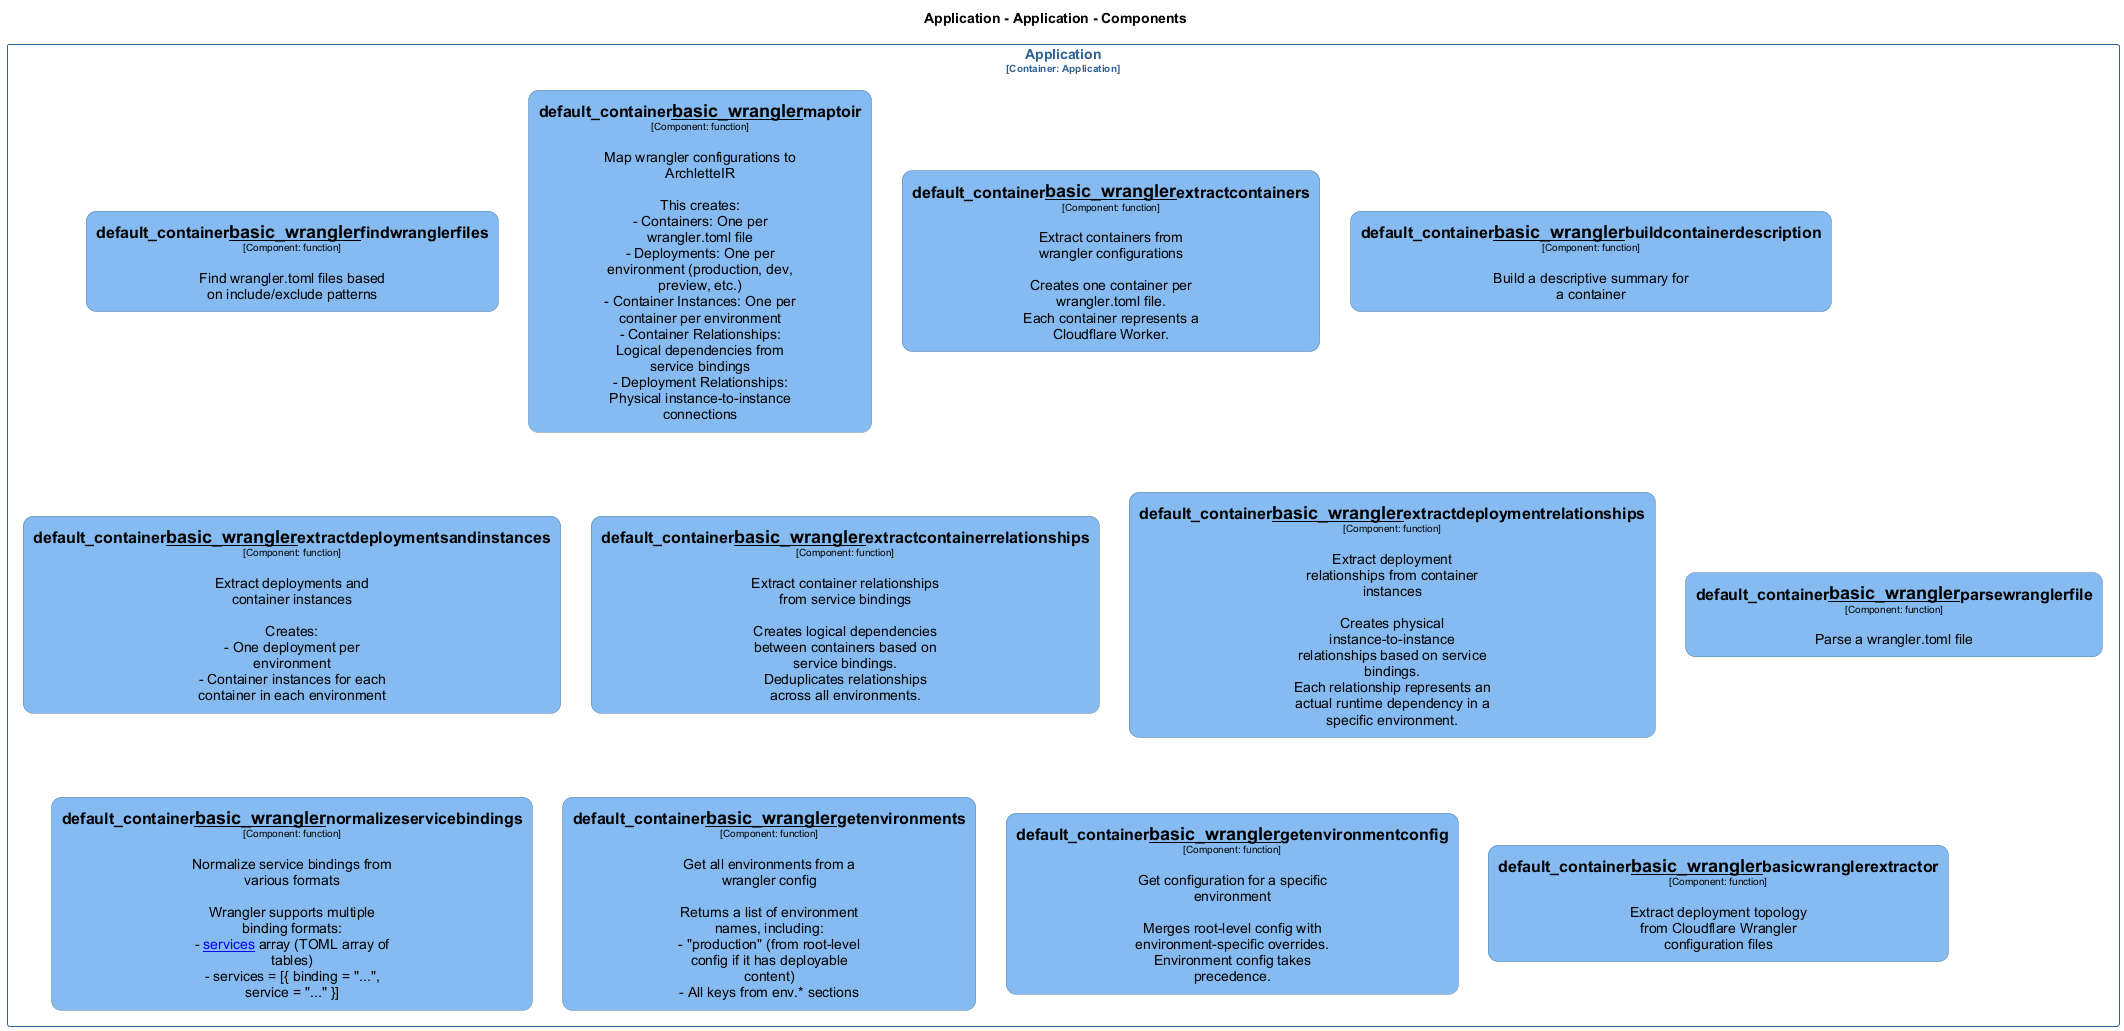
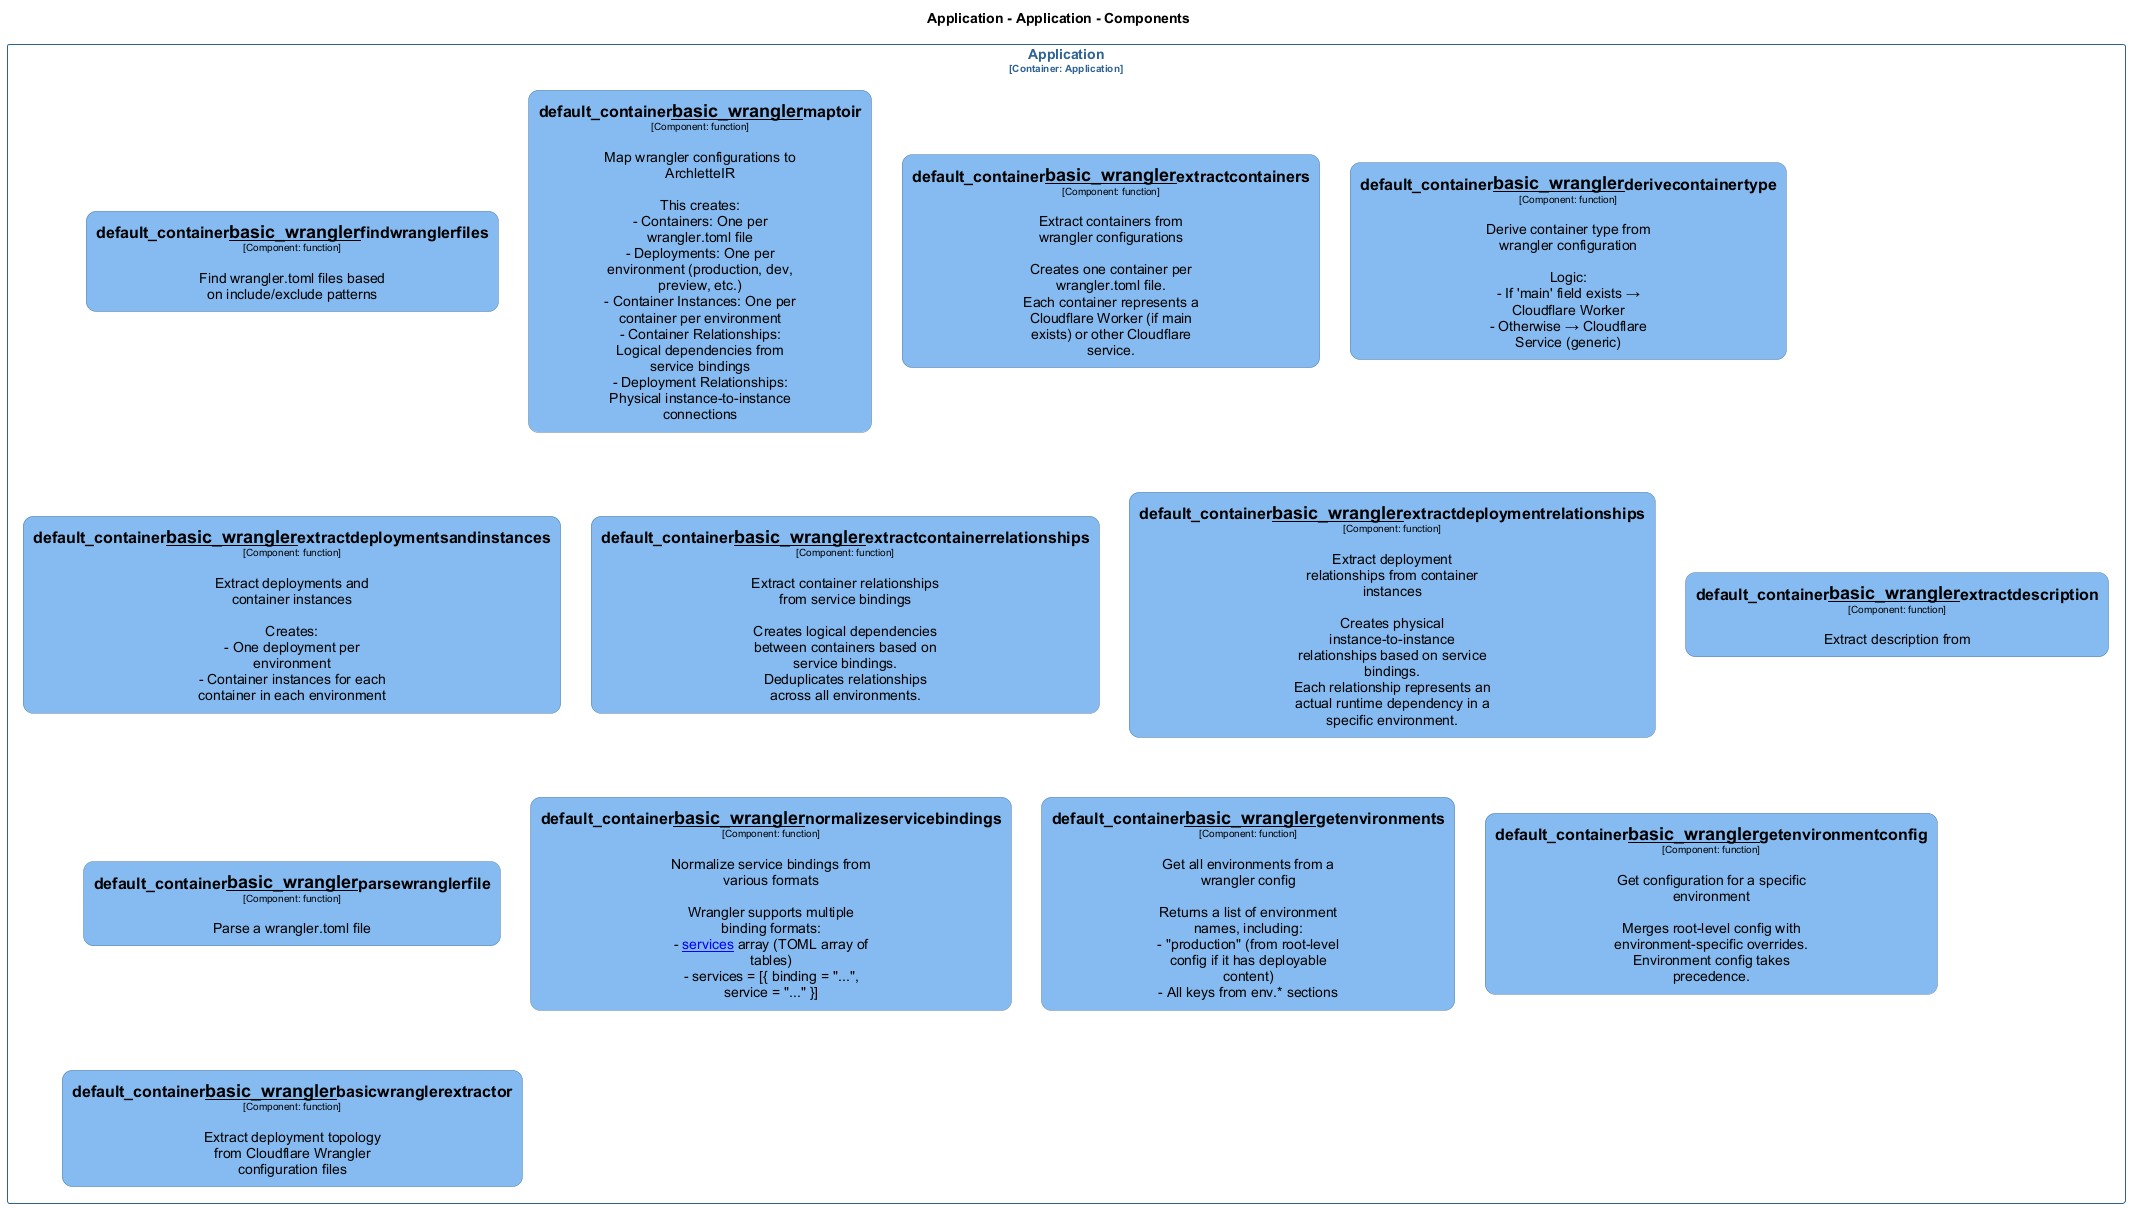
chore: improve basic wrangler extractor parsing logic
Set better default worker descriptions
Derive alternative descriptions from custom @description tags

Written-by: Chris Lyons

diff --git a/src/extractors/builtin/basic-wrangler/to-ir-mapper.ts b/src/extractors/builtin/basic-wrangler/to-ir-mapper.ts
@@ -69,19 +69,23 @@ export function mapToIR(configs: WranglerConfig[], systemInfo?: System): Archlet
  * Extract containers from wrangler configurations
  *
  * Creates one container per wrangler.toml file.
- * Each container represents a Cloudflare Worker.
+ * Each container represents a Cloudflare Worker (if main exists) or other Cloudflare service.
  *
  * @param configs - Parsed wrangler configurations
  * @returns Array of Container objects
  */
 function extractContainers(configs: WranglerConfig[]) {
   return configs.map((config) => {
-    const description = buildContainerDescription(config);
+    // Derive type from configuration structure
+    const type = deriveContainerType(config);
+
+    // Use @description if available, otherwise create default
+    const description = config.description || `${type}: ${config.name}`;
 
     return {
       id: sanitizeId(config.name),
       name: config.name,
-      type: 'Cloudflare Worker',
+      type,
       layer: 'Application',
       description,
       tags: ['cloudflare', 'worker'],
@@ -94,23 +98,23 @@ function extractContainers(configs: WranglerConfig[]) {
 }
 
 /**
- * Build a descriptive summary for a container
+ * Derive container type from wrangler configuration
+ *
+ * Logic:
+ * - If 'main' field exists → Cloudflare Worker
+ * - Otherwise → Cloudflare Service (generic)
  *
  * @param config - Wrangler configuration
- * @returns Description string
+ * @returns Container type string
  */
-function buildContainerDescription(config: WranglerConfig): string | undefined {
-  const parts: string[] = [];
-
+function deriveContainerType(config: WranglerConfig): string {
+  // Presence of 'main' indicates a Worker
   if (config.main) {
-    parts.push(`Entry: ${config.main}`);
+    return 'Cloudflare Worker';
   }
 
-  if (config.compatibility_date) {
-    parts.push(`Compatibility: ${config.compatibility_date}`);
-  }
-
-  return parts.length > 0 ? parts.join(' | ') : undefined;
+  // Future: Could detect Pages, Durable Objects, etc.
+  return 'Cloudflare Service';
 }
 
 /**

diff --git a/src/extractors/builtin/basic-wrangler/wrangler-parser.ts b/src/extractors/builtin/basic-wrangler/wrangler-parser.ts
@@ -19,6 +19,27 @@ import type {
 const log = createLogger({ context: 'WranglerParser' });
 
 /**
+ * Extract description from @description comment tag in TOML content
+ *
+ * @param content - Raw TOML file content
+ * @returns Description string if found, undefined otherwise
+ */
+function extractDescription(content: string): string | undefined {
+  // Split by both Unix (\n) and Windows (\r\n) line endings
+  const lines = content.split(/\r?\n/);
+  for (const line of lines) {
+    const match = line.match(/^#\s*@description\s+(.+)$/);
+    if (match) {
+      const description = match[1].trim();
+      log.debug(`Found @description: "${description}"`);
+      return description;
+    }
+  }
+  log.debug('No @description tag found in file');
+  return undefined;
+}
+
+/**
  * Parse a wrangler.toml file
  *
  * @param filePath - Absolute path to wrangler.toml file
@@ -26,10 +47,13 @@ const log = createLogger({ context: 'WranglerParser' });
  */
 export async function parseWranglerFile(filePath: string): Promise<WranglerConfig> {
   try {
+    log.debug(`Parsing wrangler file: ${filePath}`);
     const content = readFileSync(filePath, 'utf-8');
     // TOML parser returns unknown structure - we validate at runtime
     const parsed = parseToml(content) as Record<string, unknown>;
-
+    // Extract description from comments
+    const description = extractDescription(content);
+    log.debug(`Extracted description: ${description ? `"${description}"` : 'none'}`);
     // Build WranglerConfig with runtime type validation
     const config: WranglerConfig = {
       filePath,
@@ -39,6 +63,7 @@ export async function parseWranglerFile(filePath: string): Promise<WranglerConfi
         typeof parsed.compatibility_date === 'string'
           ? parsed.compatibility_date
           : undefined,
+      description,
 
       // Root-level configuration (typically production)
       // eslint-disable-next-line @typescript-eslint/no-explicit-any

diff --git a/src/extractors/builtin/basic-wrangler/types.ts b/src/extractors/builtin/basic-wrangler/types.ts
@@ -93,6 +93,7 @@ export interface WranglerConfig {
   name: string; // Worker/service name
   main?: string; // Entry point file path
   compatibility_date?: string;
+  description?: string; // Extracted from @description comment tag
 
   // Root-level configuration (typically production)
   vars?: Record<string, string>;

diff --git a/docs/architecture/default_container__basic_wrangler.md b/docs/architecture/default_container__basic_wrangler.md
@@ -38,7 +38,7 @@
 ### Code Elements
 
 <details>
-<summary><strong>12 code element(s)</strong></summary>
+<summary><strong>13 code element(s)</strong></summary>
 
 
 
@@ -158,7 +158,7 @@ This creates:
 Extract containers from wrangler configurations
 
 Creates one container per wrangler.toml file.
-Each container represents a Cloudflare Worker.
+Each container represents a Cloudflare Worker (if main exists) or other Cloudflare service.
 
 <table>
 <tbody>
@@ -186,9 +186,13 @@ Each container represents a Cloudflare Worker.
 - `configs`: <code>import("C:/Users/chris/git/archlette/src/extractors/builtin/basic-wrangler/types").WranglerConfig[]</code> — - Parsed wrangler configurations
 
 ---
-##### `buildContainerDescription()`
+##### `deriveContainerType()`
 
-Build a descriptive summary for a container
+Derive container type from wrangler configuration
+
+Logic:
+- If 'main' field exists → Cloudflare Worker
+- Otherwise → Cloudflare Service (generic)
 
 <table>
 <tbody>
@@ -202,11 +206,11 @@ Build a descriptive summary for a container
 </tr>
 <tr>
 <td><strong>Returns</strong></td>
-<td><code>string</code> — Description string</td>
+<td><code>string</code> — Container type string</td>
 </tr>
 <tr>
 <td><strong>Location</strong></td>
-<td><code>C:/Users/chris/git/archlette/src/extractors/builtin/basic-wrangler/to-ir-mapper.ts:102</code></td>
+<td><code>C:/Users/chris/git/archlette/src/extractors/builtin/basic-wrangler/to-ir-mapper.ts:110</code></td>
 </tr>
 </tbody>
 </table>
@@ -240,7 +244,7 @@ Creates:
 </tr>
 <tr>
 <td><strong>Location</strong></td>
-<td><code>C:/Users/chris/git/archlette/src/extractors/builtin/basic-wrangler/to-ir-mapper.ts:127</code></td>
+<td><code>C:/Users/chris/git/archlette/src/extractors/builtin/basic-wrangler/to-ir-mapper.ts:131</code></td>
 </tr>
 </tbody>
 </table>
@@ -273,7 +277,7 @@ Deduplicates relationships across all environments.
 </tr>
 <tr>
 <td><strong>Location</strong></td>
-<td><code>C:/Users/chris/git/archlette/src/extractors/builtin/basic-wrangler/to-ir-mapper.ts:271</code></td>
+<td><code>C:/Users/chris/git/archlette/src/extractors/builtin/basic-wrangler/to-ir-mapper.ts:275</code></td>
 </tr>
 </tbody>
 </table>
@@ -306,7 +310,7 @@ Each relationship represents an actual runtime dependency in a specific environm
 </tr>
 <tr>
 <td><strong>Location</strong></td>
-<td><code>C:/Users/chris/git/archlette/src/extractors/builtin/basic-wrangler/to-ir-mapper.ts:317</code></td>
+<td><code>C:/Users/chris/git/archlette/src/extractors/builtin/basic-wrangler/to-ir-mapper.ts:321</code></td>
 </tr>
 </tbody>
 </table>
@@ -314,6 +318,36 @@ Each relationship represents an actual runtime dependency in a specific environm
 **Parameters:**
 
 - `instances`: <code>z.infer<any>[]</code> — - Container instances
+
+---
+##### `extractDescription()`
+
+Extract description from
+
+<table>
+<tbody>
+<tr>
+<td><strong>Type</strong></td>
+<td><code>function</code></td>
+</tr>
+<tr>
+<td><strong>Visibility</strong></td>
+<td><code>private</code></td>
+</tr>
+<tr>
+<td><strong>Returns</strong></td>
+<td><code>string</code> — Description string if found, undefined otherwise</td>
+</tr>
+<tr>
+<td><strong>Location</strong></td>
+<td><code>C:/Users/chris/git/archlette/src/extractors/builtin/basic-wrangler/wrangler-parser.ts:27</code></td>
+</tr>
+</tbody>
+</table>
+
+**Parameters:**
+
+- `content`: <code>string</code> — - Raw TOML file content
 
 ---
 ##### `parseWranglerFile()`
@@ -340,7 +374,7 @@ Parse a wrangler.toml file
 </tr>
 <tr>
 <td><strong>Location</strong></td>
-<td><code>C:/Users/chris/git/archlette/src/extractors/builtin/basic-wrangler/wrangler-parser.ts:27</code></td>
+<td><code>C:/Users/chris/git/archlette/src/extractors/builtin/basic-wrangler/wrangler-parser.ts:44</code></td>
 </tr>
 </tbody>
 </table>
@@ -374,7 +408,7 @@ Wrangler supports multiple binding formats:
 </tr>
 <tr>
 <td><strong>Location</strong></td>
-<td><code>C:/Users/chris/git/archlette/src/extractors/builtin/basic-wrangler/wrangler-parser.ts:83</code></td>
+<td><code>C:/Users/chris/git/archlette/src/extractors/builtin/basic-wrangler/wrangler-parser.ts:102</code></td>
 </tr>
 </tbody>
 </table>
@@ -408,7 +442,7 @@ Returns a list of environment names, including:
 </tr>
 <tr>
 <td><strong>Location</strong></td>
-<td><code>C:/Users/chris/git/archlette/src/extractors/builtin/basic-wrangler/wrangler-parser.ts:104</code></td>
+<td><code>C:/Users/chris/git/archlette/src/extractors/builtin/basic-wrangler/wrangler-parser.ts:123</code></td>
 </tr>
 </tbody>
 </table>
@@ -441,7 +475,7 @@ Environment config takes precedence.
 </tr>
 <tr>
 <td><strong>Location</strong></td>
-<td><code>C:/Users/chris/git/archlette/src/extractors/builtin/basic-wrangler/wrangler-parser.ts:145</code></td>
+<td><code>C:/Users/chris/git/archlette/src/extractors/builtin/basic-wrangler/wrangler-parser.ts:164</code></td>
 </tr>
 </tbody>
 </table>

diff --git a/docs/architecture/default_container__core_path.md b/docs/architecture/default_container__core_path.md
@@ -90,7 +90,7 @@ Securely resolve a user-provided path with validation
 </tr>
 <tr>
 <td><strong>Location</strong></td>
-<td><code>C:/Users/chris/git/archlette/src/core/path-security.ts:190</code></td>
+<td><code>C:/Users/chris/git/archlette/src/core/path-security.ts:203</code></td>
 </tr>
 </tbody>
 </table>
@@ -125,14 +125,14 @@ Uses 'config-relative' strategy by default
 </tr>
 <tr>
 <td><strong>Location</strong></td>
-<td><code>C:/Users/chris/git/archlette/src/core/path-security.ts:276</code></td>
+<td><code>C:/Users/chris/git/archlette/src/core/path-security.ts:289</code></td>
 </tr>
 </tbody>
 </table>
 
 **Parameters:**
 
-- `userPath`: <code>string</code>- `configBaseDir`: <code>string</code>- `allowedExtensions`: <code>string[]</code>
+- `userPath`: <code>string</code>- `configBaseDir`: <code>string</code>- `allowedExtensions`: <code>string[]</code>- `allowedAbsolutePaths`: <code>string[]</code>
 
 ---
 ##### `resolvePluginPath()`
@@ -156,14 +156,14 @@ Uses 'cli-relative' strategy by default
 </tr>
 <tr>
 <td><strong>Location</strong></td>
-<td><code>C:/Users/chris/git/archlette/src/core/path-security.ts:293</code></td>
+<td><code>C:/Users/chris/git/archlette/src/core/path-security.ts:308</code></td>
 </tr>
 </tbody>
 </table>
 
 **Parameters:**
 
-- `userPath`: <code>string</code>- `cliDir`: <code>string</code>- `allowedAbsolutePaths`: <code>string[]</code>
+- `userPath`: <code>string</code>- `cliDir`: <code>string</code>- `allowedExtensions`: <code>string[]</code>- `allowedAbsolutePaths`: <code>string[]</code>
 
 ---
 

diff --git a/docs/architecture/default_container__cli.md b/docs/architecture/default_container__cli.md
@@ -92,7 +92,7 @@
 </tr>
 <tr>
 <td><strong>Location</strong></td>
-<td><code>C:/Users/chris/git/archlette/src/cli.ts:87</code></td>
+<td><code>C:/Users/chris/git/archlette/src/cli.ts:86</code></td>
 </tr>
 </tbody>
 </table>
@@ -121,7 +121,7 @@
 </tr>
 <tr>
 <td><strong>Location</strong></td>
-<td><code>C:/Users/chris/git/archlette/src/cli.ts:122</code></td>
+<td><code>C:/Users/chris/git/archlette/src/cli.ts:121</code></td>
 </tr>
 </tbody>
 </table>
@@ -154,7 +154,7 @@
 </tr>
 <tr>
 <td><strong>Location</strong></td>
-<td><code>C:/Users/chris/git/archlette/src/cli.ts:128</code></td>
+<td><code>C:/Users/chris/git/archlette/src/cli.ts:127</code></td>
 </tr>
 </tbody>
 </table>

diff --git a/docs/architecture/default_container__basic.md b/docs/architecture/default_container__basic.md
@@ -68,7 +68,7 @@ Create empty IR when no files found
 </tr>
 <tr>
 <td><strong>Location</strong></td>
-<td><code>C:/Users/chris/git/archlette/src/extractors/builtin/basic-python.ts:149</code></td>
+<td><code>C:/Users/chris/git/archlette/src/extractors/builtin/basic-python.ts:150</code></td>
 </tr>
 </tbody>
 </table>

diff --git a/docs/architecture/default_container__core.md b/docs/architecture/default_container__core.md
@@ -1048,7 +1048,7 @@ For each stage, resolve includes/excludes for each node:
 </tr>
 <tr>
 <td><strong>Location</strong></td>
-<td><code>C:/Users/chris/git/archlette/src/core/types-aac.ts:142</code></td>
+<td><code>C:/Users/chris/git/archlette/src/core/types-aac.ts:145</code></td>
 </tr>
 </tbody>
 </table>

diff --git a/docs/architecture/README.md b/docs/architecture/README.md
@@ -1,7 +1,7 @@
 # 🏗 Application
 
 **Architecture Documentation**
-Generated 2025-10-25 10:55:37
+Generated 2025-10-26 00:29:33
 
 ## Overview
 
